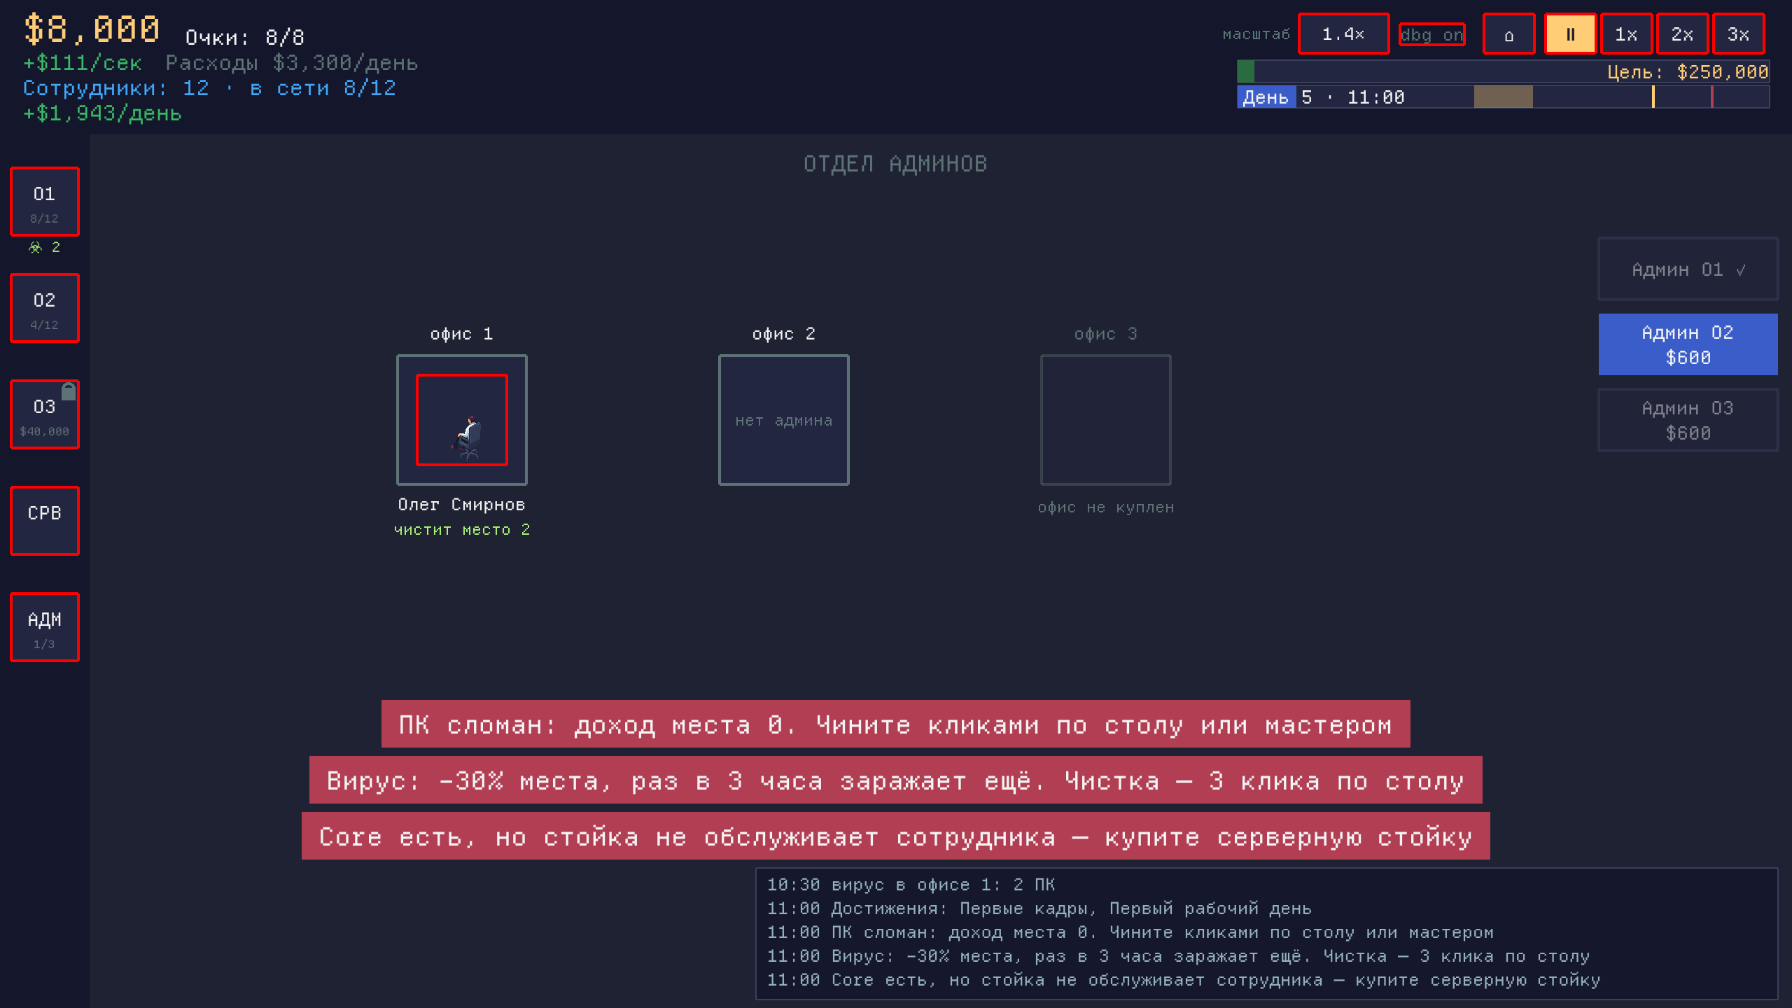
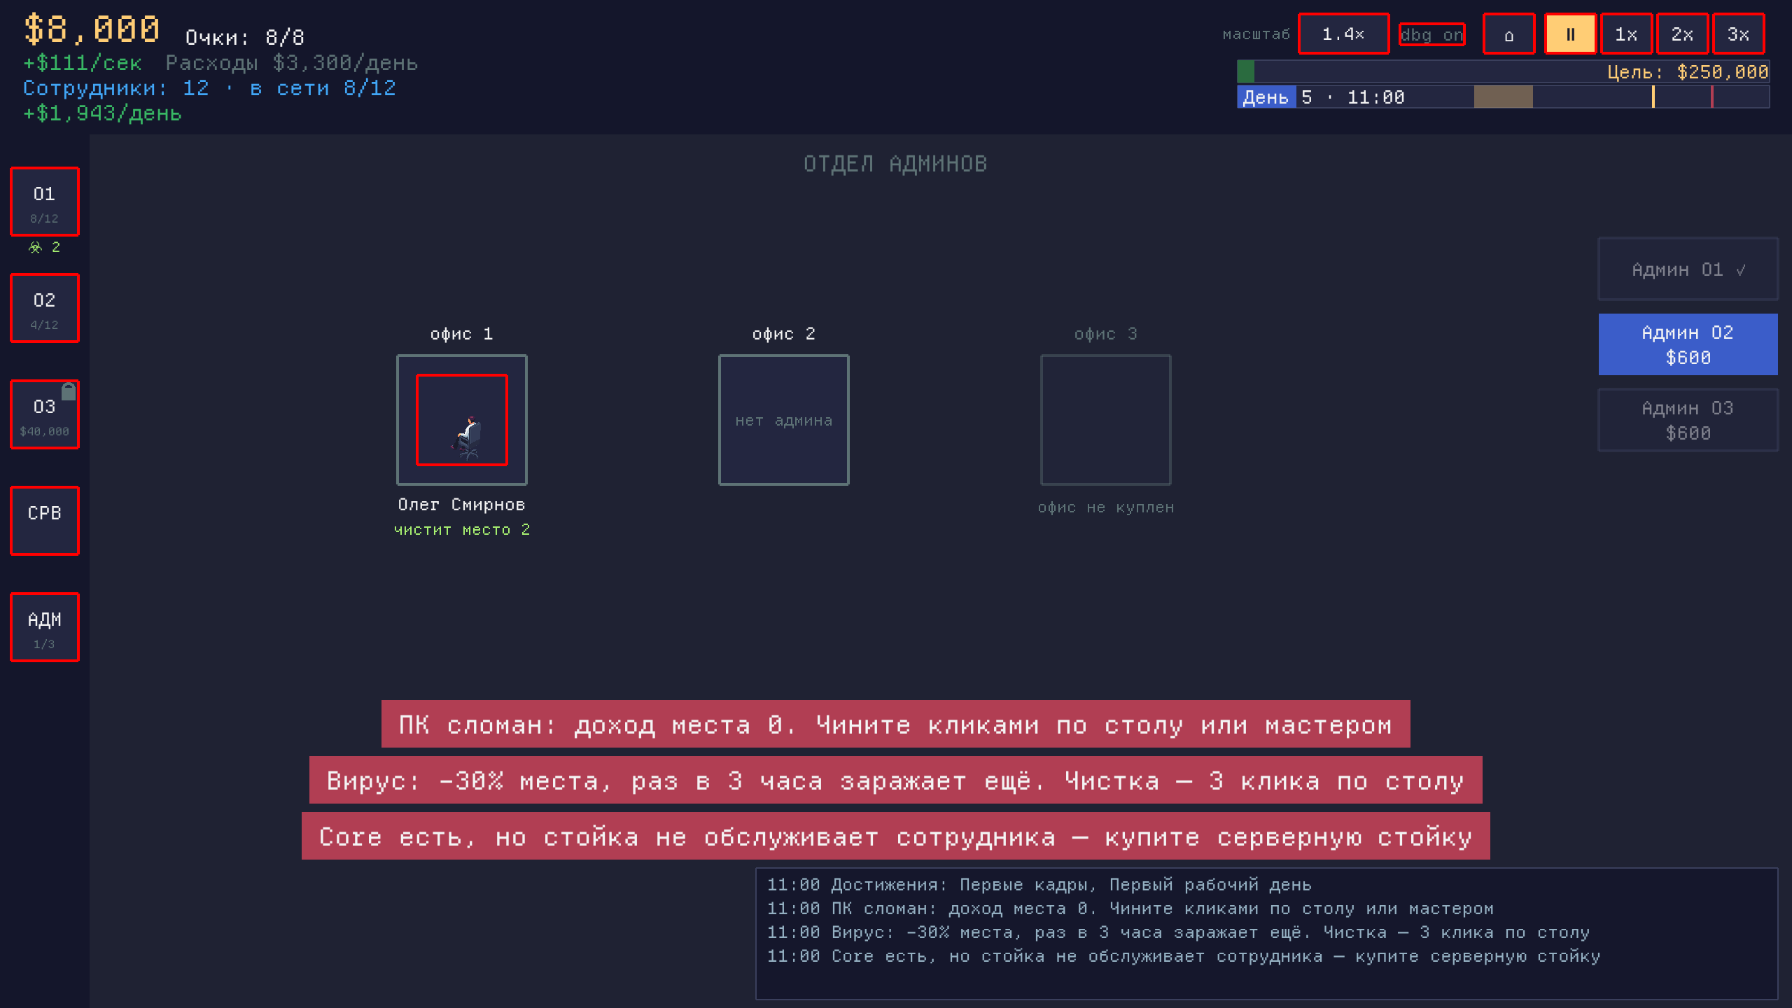
fix(game): admin_dept fixture infection dates from yesterday — ITGAME-233
The fixture had dayVirusPCs 0 but an eventLog line claiming an infection at
10:30 today. Removed the today eventLog entry from admin_dept.json and updated
the description so seats 2 and 7 are infected since yesterday without a
spurious today outbreak; visreg admin_dept shot updated (0 px diff);
development.md updated; build OK, npm test 86/86, go test ./... OK (10 packages),
qa:admins 15/15, qa:hud 462/462, visreg 11/11 OK.

Changed region(s): [[0.4375, 0.8611, 0.9062, 0.9841]]

diff --git a/docs/development.md b/docs/development.md
@@ -1083,9 +1083,9 @@ zero («Админы:    починили 1 ПК»), no line when both are; the 
 `seatsLabel` (also the antivirus window's); `not_infected` / `not_broken`
 from a command while the active office has an admin raise no toast and no sound
 — the player's finishing click there regularly loses the race to the admin's
-tick; `itd.state()` gives `adminDept` and `admins` (count). Fixture
-`admin_dept`: day 5, 11:00, $8,000, the department bought, office 1 (8 staff,
-router t2, core 1) with an admin whose queue runs seat 2 → 7 → repair 4 and
+tick; `itd.state()` gives `adminDept` and `admins` (count). Fixture `admin_dept`: day 5, 11:00, $8,000, the department bought, office 1 (8 staff,
+router t2, core 1, seats 2 and 7 infected since yesterday with `dayVirusPCs: 0`)
+with an admin whose queue runs seat 2 → 7 → repair 4 and
 then he is free, office 2 (4 staff) without an admin and a broken seat 3,
 office 3 closed.
 
